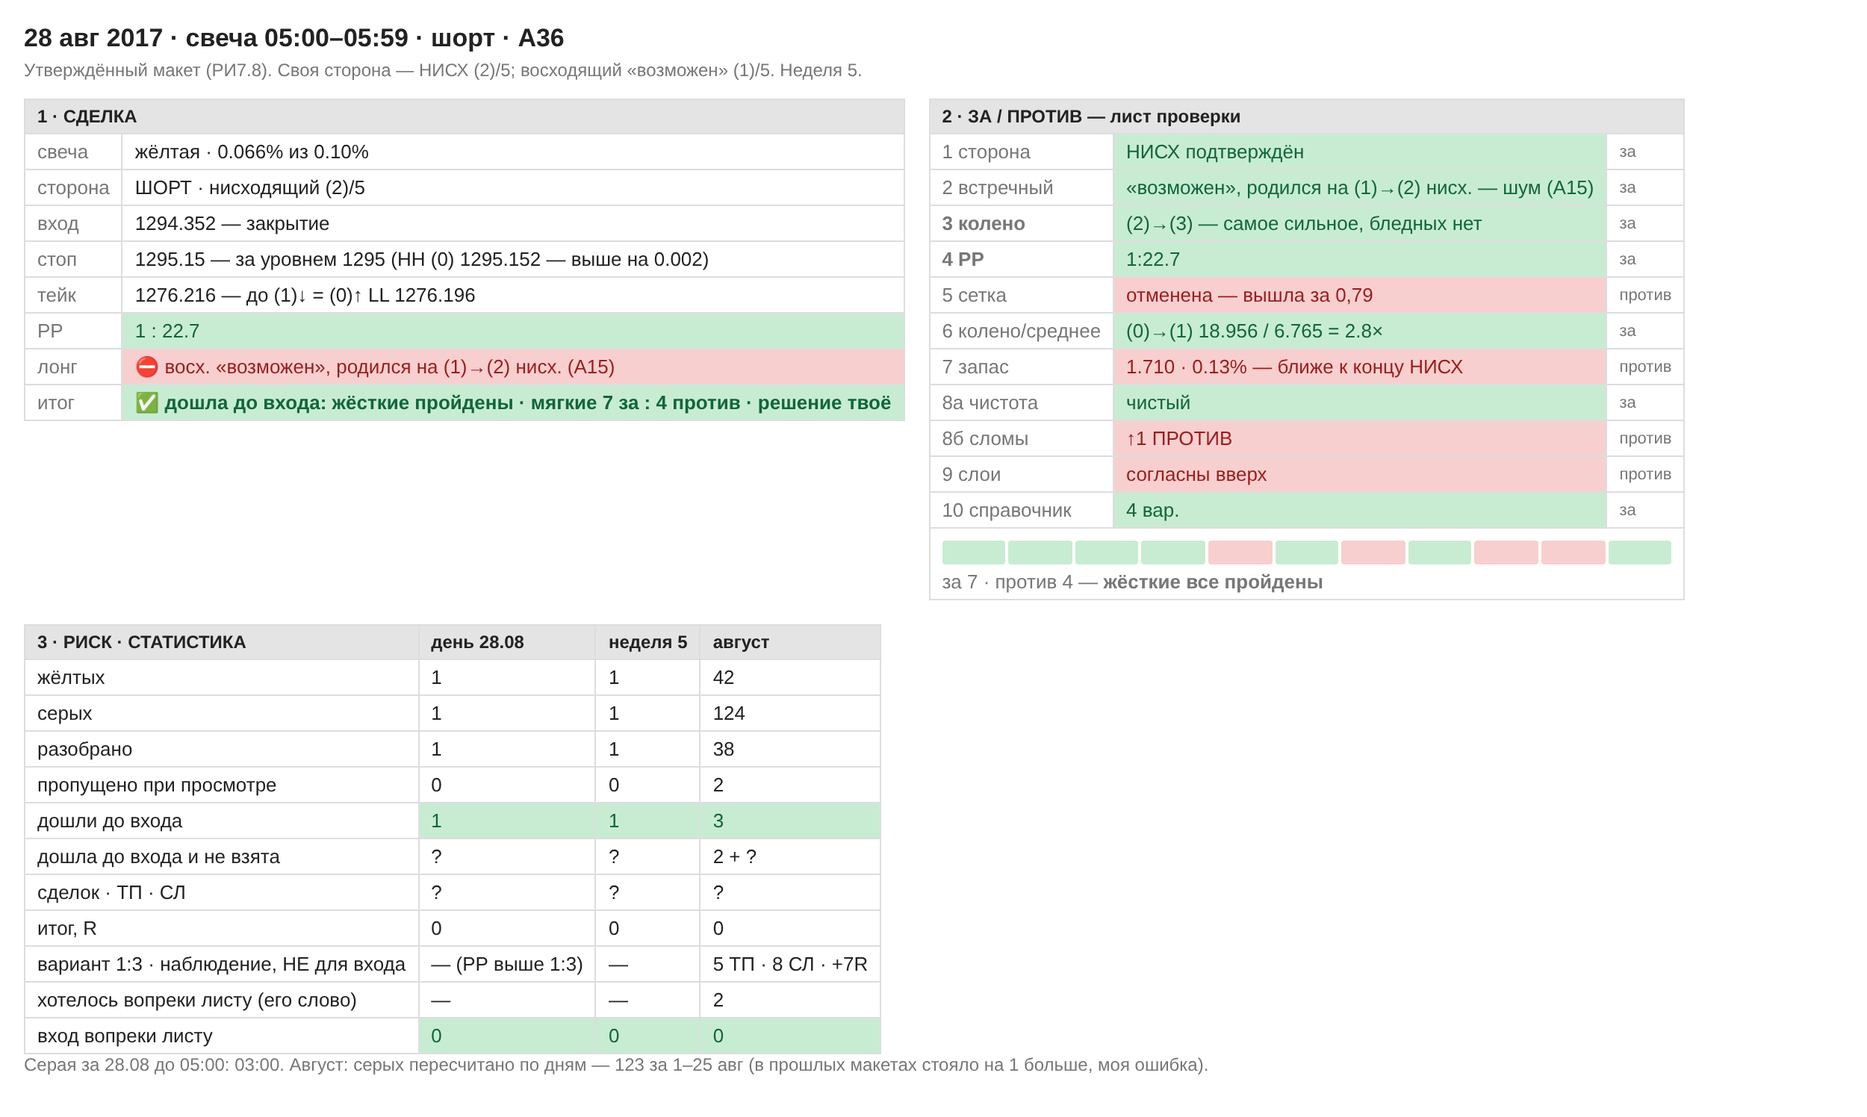
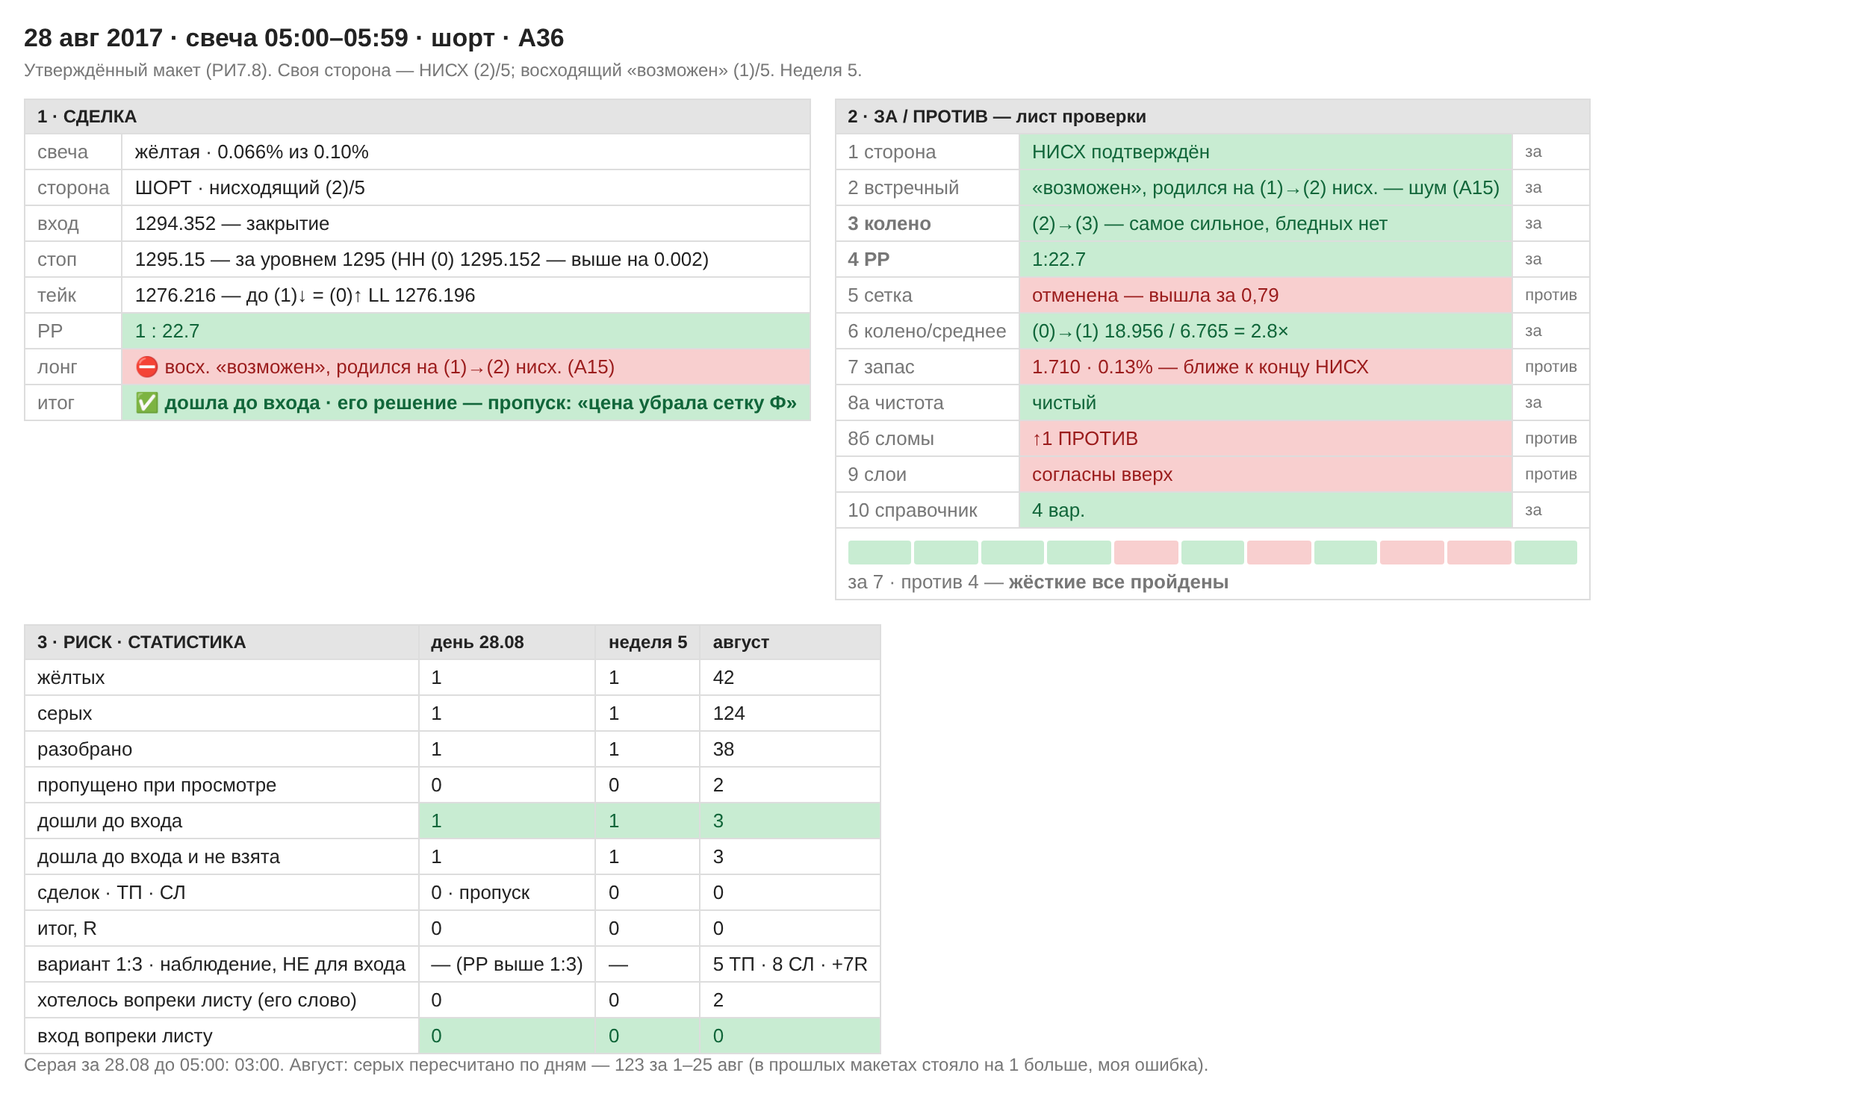
А36: его решение — пропуск, «цена убрала сетку Ф»; отменённая сетка решает второй раз — спрошено
Claude-Session: https://claude.ai/code/session_01TnuyYeu48W8E686G1zottP

Changed region(s): [[0.1872, 0.0615, 0.9048, 0.5535]]

diff --git a/research/out/maket/2017-08-28_0500.html b/research/out/maket/2017-08-28_0500.html
@@ -6,4 +6,4 @@ table{border-collapse:collapse;min-width:360px}td,th{border:1px solid var(--ln);
 th{background:var(--h);font-size:12px}.blk td:first-child{color:var(--mut);white-space:nowrap}
 .g{background:var(--g);color:var(--gt)}.r{background:var(--r);color:var(--rt)}.n{background:var(--n);color:var(--mut)}
 .hard{font-weight:bold}.tag{font-size:11px;color:var(--mut)}
-.bar{display:flex;gap:2px;margin:4px 0}.bar span{flex:1;height:16px;border-radius:2px}</style></head><body><h1>28 авг 2017 · свеча 05:00–05:59 · шорт · А36</h1><p class="sub">Утверждённый макет (РИ7.8). Своя сторона — НИСХ (2)/5; восходящий «возможен» (1)/5. Неделя 5.</p><div class="wrap"><table class="blk"><tr><th colspan="2">1 · СДЕЛКА</th></tr><tr><td>свеча</td><td class="">жёлтая · 0.066% из 0.10%</td></tr><tr><td>сторона</td><td class="">ШОРТ · нисходящий (2)/5</td></tr><tr><td>вход</td><td class="">1294.352 — закрытие</td></tr><tr><td>стоп</td><td class="">1295.15 — за уровнем 1295 (HH (0) 1295.152 — выше на 0.002)</td></tr><tr><td>тейк</td><td class="">1276.216 — до (1)↓ = (0)↑ LL 1276.196</td></tr><tr><td>РР</td><td class="g">1 : 22.7</td></tr><tr><td>лонг</td><td class="r">⛔ восх. «возможен», родился на (1)→(2) нисх. (А15)</td></tr><tr><td>итог</td><td class="g hard">✅ дошла до входа: жёсткие пройдены · мягкие 7 за : 4 против · решение твоё</td></tr></table><table class="blk"><tr><th colspan="3">2 · ЗА / ПРОТИВ — лист проверки</th></tr><tr><td class="">1 сторона</td><td class="g">НИСХ подтверждён</td><td class="tag">за</td></tr><tr><td class="">2 встречный</td><td class="g">«возможен», родился на (1)→(2) нисх. — шум (А15)</td><td class="tag">за</td></tr><tr><td class="hard">3 колено</td><td class="g">(2)→(3) — самое сильное, бледных нет</td><td class="tag">за</td></tr><tr><td class="hard">4 РР</td><td class="g">1:22.7</td><td class="tag">за</td></tr><tr><td class="">5 сетка</td><td class="r">отменена — вышла за 0,79</td><td class="tag">против</td></tr><tr><td class="">6 колено/среднее</td><td class="g">(0)→(1) 18.956 / 6.765 = 2.8×</td><td class="tag">за</td></tr><tr><td class="">7 запас</td><td class="r">1.710 · 0.13% — ближе к концу НИСХ</td><td class="tag">против</td></tr><tr><td class="">8а чистота</td><td class="g">чистый</td><td class="tag">за</td></tr><tr><td class="">8б сломы</td><td class="r">↑1 ПРОТИВ</td><td class="tag">против</td></tr><tr><td class="">9 слои</td><td class="r">согласны вверх</td><td class="tag">против</td></tr><tr><td class="">10 справочник</td><td class="g">4 вар.</td><td class="tag">за</td></tr><tr><td colspan="3"><div class="bar"><span class="g"></span><span class="g"></span><span class="g"></span><span class="g"></span><span class="r"></span><span class="g"></span><span class="r"></span><span class="g"></span><span class="r"></span><span class="r"></span><span class="g"></span></div>за 7 · против 4 — <b>жёсткие все пройдены</b></td></tr></table><table><tr><th>3 · РИСК · СТАТИСТИКА</th><th>день 28.08</th><th>неделя 5</th><th>август</th></tr><tr><td>жёлтых</td><td class="">1</td><td class="">1</td><td class="">42</td></tr><tr><td>серых</td><td class="">1</td><td class="">1</td><td class="">124</td></tr><tr><td>разобрано</td><td class="">1</td><td class="">1</td><td class="">38</td></tr><tr><td>пропущено при просмотре</td><td class="">0</td><td class="">0</td><td class="">2</td></tr><tr><td>дошли до входа</td><td class="g">1</td><td class="g">1</td><td class="g">3</td></tr><tr><td>дошла до входа и не взята</td><td class="">?</td><td class="">?</td><td class="">2 + ?</td></tr><tr><td>сделок · ТП · СЛ</td><td class="">?</td><td class="">?</td><td class="">?</td></tr><tr><td>итог, R</td><td class="">0</td><td class="">0</td><td class="">0</td></tr><tr><td>вариант 1:3 · наблюдение, НЕ для входа</td><td class="">— (РР выше 1:3)</td><td class="">—</td><td class="">5 ТП · 8 СЛ · +7R</td></tr><tr><td>хотелось вопреки листу (его слово)</td><td class="">—</td><td class="">—</td><td class="">2</td></tr><tr><td>вход вопреки листу</td><td class="g">0</td><td class="g">0</td><td class="g">0</td></tr></table></div><p class="sub">Серая за 28.08 до 05:00: 03:00. Август: серых пересчитано по дням — 123 за 1–25 авг (в прошлых макетах стояло на 1 больше, моя ошибка).</p></body></html>
+.bar{display:flex;gap:2px;margin:4px 0}.bar span{flex:1;height:16px;border-radius:2px}</style></head><body><h1>28 авг 2017 · свеча 05:00–05:59 · шорт · А36</h1><p class="sub">Утверждённый макет (РИ7.8). Своя сторона — НИСХ (2)/5; восходящий «возможен» (1)/5. Неделя 5.</p><div class="wrap"><table class="blk"><tr><th colspan="2">1 · СДЕЛКА</th></tr><tr><td>свеча</td><td class="">жёлтая · 0.066% из 0.10%</td></tr><tr><td>сторона</td><td class="">ШОРТ · нисходящий (2)/5</td></tr><tr><td>вход</td><td class="">1294.352 — закрытие</td></tr><tr><td>стоп</td><td class="">1295.15 — за уровнем 1295 (HH (0) 1295.152 — выше на 0.002)</td></tr><tr><td>тейк</td><td class="">1276.216 — до (1)↓ = (0)↑ LL 1276.196</td></tr><tr><td>РР</td><td class="g">1 : 22.7</td></tr><tr><td>лонг</td><td class="r">⛔ восх. «возможен», родился на (1)→(2) нисх. (А15)</td></tr><tr><td>итог</td><td class="g hard">✅ дошла до входа · его решение — пропуск: «цена убрала сетку Ф»</td></tr></table><table class="blk"><tr><th colspan="3">2 · ЗА / ПРОТИВ — лист проверки</th></tr><tr><td class="">1 сторона</td><td class="g">НИСХ подтверждён</td><td class="tag">за</td></tr><tr><td class="">2 встречный</td><td class="g">«возможен», родился на (1)→(2) нисх. — шум (А15)</td><td class="tag">за</td></tr><tr><td class="hard">3 колено</td><td class="g">(2)→(3) — самое сильное, бледных нет</td><td class="tag">за</td></tr><tr><td class="hard">4 РР</td><td class="g">1:22.7</td><td class="tag">за</td></tr><tr><td class="">5 сетка</td><td class="r">отменена — вышла за 0,79</td><td class="tag">против</td></tr><tr><td class="">6 колено/среднее</td><td class="g">(0)→(1) 18.956 / 6.765 = 2.8×</td><td class="tag">за</td></tr><tr><td class="">7 запас</td><td class="r">1.710 · 0.13% — ближе к концу НИСХ</td><td class="tag">против</td></tr><tr><td class="">8а чистота</td><td class="g">чистый</td><td class="tag">за</td></tr><tr><td class="">8б сломы</td><td class="r">↑1 ПРОТИВ</td><td class="tag">против</td></tr><tr><td class="">9 слои</td><td class="r">согласны вверх</td><td class="tag">против</td></tr><tr><td class="">10 справочник</td><td class="g">4 вар.</td><td class="tag">за</td></tr><tr><td colspan="3"><div class="bar"><span class="g"></span><span class="g"></span><span class="g"></span><span class="g"></span><span class="r"></span><span class="g"></span><span class="r"></span><span class="g"></span><span class="r"></span><span class="r"></span><span class="g"></span></div>за 7 · против 4 — <b>жёсткие все пройдены</b></td></tr></table><table><tr><th>3 · РИСК · СТАТИСТИКА</th><th>день 28.08</th><th>неделя 5</th><th>август</th></tr><tr><td>жёлтых</td><td class="">1</td><td class="">1</td><td class="">42</td></tr><tr><td>серых</td><td class="">1</td><td class="">1</td><td class="">124</td></tr><tr><td>разобрано</td><td class="">1</td><td class="">1</td><td class="">38</td></tr><tr><td>пропущено при просмотре</td><td class="">0</td><td class="">0</td><td class="">2</td></tr><tr><td>дошли до входа</td><td class="g">1</td><td class="g">1</td><td class="g">3</td></tr><tr><td>дошла до входа и не взята</td><td class="">1</td><td class="">1</td><td class="">3</td></tr><tr><td>сделок · ТП · СЛ</td><td class="">0 · пропуск</td><td class="">0</td><td class="">0</td></tr><tr><td>итог, R</td><td class="">0</td><td class="">0</td><td class="">0</td></tr><tr><td>вариант 1:3 · наблюдение, НЕ для входа</td><td class="">— (РР выше 1:3)</td><td class="">—</td><td class="">5 ТП · 8 СЛ · +7R</td></tr><tr><td>хотелось вопреки листу (его слово)</td><td class="">0</td><td class="">0</td><td class="">2</td></tr><tr><td>вход вопреки листу</td><td class="g">0</td><td class="g">0</td><td class="g">0</td></tr></table></div><p class="sub">Серая за 28.08 до 05:00: 03:00. Август: серых пересчитано по дням — 123 за 1–25 авг (в прошлых макетах стояло на 1 больше, моя ошибка).</p></body></html>

diff --git a/indicator/КАК-ТОРГУЮ.md b/indicator/КАК-ТОРГУЮ.md
@@ -62,7 +62,7 @@
 | **А33** | 19.11.2026 | **25 августа 01:00** — скрин, «переходим на 25 августа» | ⭐ **вторая в августе «дошла до входа»**: лонг на `(2)→(3)`, РР 1:4.12 до (1) HH 1290.249, жёсткие пройдены · мягкие 6 за : 4 против · **его решение — «скорее пропуск»**, неуверенность |
 | **А34** | 19.11.2026 | **25 августа 05:00** — скрин без слов | пропуск: шорт на `(2)→(3)` нисх., РР 1:1.78 до (1)↓ HL 1284.881 · лонг — восх. на (3), коррекция · первый скрин с его порогом колена 1 · В36: шорт 1:3, тейк 1283.918 |
 | **А35** | 19.11.2026 | **25 августа 12:00** — скрин без слов | пропуск обе стороны: шорт — РР 1:1.57 до (3)↓ HL 1285.962, бледная (4) с оговоркой · лонг — бледная **(5)** восх., ТС8.13 · одна бледная 1288.624 на двоих · В36: шорт 1:3, тейк 1284.226 |
-| **А36** | 19.11.2026 | **28 августа 05:00** — скрин, «переходим на 28 августа» | ⭐ **третья «дошла до входа»**: шорт на `(2)→(3)` нисх., РР **1:22.7** до (1)↓ LL 1276.196 · жёсткие пройдены, мягкие 7 : 4 · решение его |
+| **А36** | 19.11.2026 | **28 августа 05:00** — скрин, «переходим на 28 августа» | ⭐ **третья «дошла до входа»**: шорт на `(2)→(3)` нисх., РР **1:22.7** до (1)↓ LL 1276.196 · жёсткие пройдены, мягкие 7 : 4 · **его решение — пропуск: «цена убрала сетку Ф»** |
 
 ---
 
@@ -4436,3 +4436,14 @@ LH 1290.234 · рубится глубиной 1291.653 · запас 5.347, 0.4
 **Вариант 1:3 не пишется:** РР выше 1:3.
 
 **Макет:** `research/out/maket/2017-08-28_0500.png`. ❓ Спрошено: входит ли.
+
+**Ответ, 19.11.2026:** «нет, пропуск. цена убрала сетку Ф».
+
+| | |
+|---|---|
+| решение | **пропуск** — дошла до входа и **не взята**, третий раз из трёх |
+| его довод | **сетка отменена** — по листу это мягкий пункт 5 (жёсткий только «между») |
+| ⚠ **что заметно** | **второй раз подряд** решает именно отменённая сетка: в А33 (25 авг 01:00) он назвал её первой — «нет сетки… потому что цена её убрала», здесь — единственной. В листе она мягкая, в его решениях — решающая |
+| ❓ спрошено | сделать «сетка отменена» жёстким пунктом или оставить мягким. По умолчанию — **оставить мягким и копить**: два случая — не правило, а у мягких решает он сам (ТС8.9) |
+
+Исход — когда он пройдёт дальше.

diff --git a/indicator/ТАБЛО-НА-СВЕЧЕ.md b/indicator/ТАБЛО-НА-СВЕЧЕ.md
@@ -48,7 +48,7 @@
 | 25 авг 01:00 | А33 | скрин | **ВОСХ** / возможен | (2) / (1) | ↑ чистый, ↓1 ПРОТИВ · ↓ чистый, ↓1 за | согласны (вниз) | 0.19% · ближе к концу ВОСХ | 5.757 / 6.934 | ВОСХ `(0)→(1)`, отменена — вышла за 0,79 | **лонг 1:4.12 ✅** | ⭐ **дошла до входа**, 6 : 4 · его решение — **«скорее пропуск»**: неуверенность, сетки нет, слом против, «не нравится, как проходит тренд» | лонг — ✅ **тейк** 25 авг ~16:10 (его 5m: 15:10 мин. 1285.58 → 16:10 макс. 1295.16) — **упущено +4.12R** |
 | 25 авг 05:00 | А34 | скрин | **ВОСХ** / **НИСХ** | (3) / (2) | ↑ чистый, ↓2 ПРОТИВ · ↓ чистый, ↓2 за | спорят | ↓ 0.16% (ближе к концу) | 5.368 / 6.303 (данные) | у ВОСХ колено мелкое (порог 1) | шорт 1:1.78 | пропуск: шорт — РР; лонг — коррекция | шорт — **стоп** в 08:00 (и 1:3 тоже) |
 | 25 авг 12:00 | А35 | скрин | **ВОСХ** / **НИСХ** | (4)·**(5) предв.** / (3)·(4) предв. | ↑ чистый, ↑1 за · ↓ чистый, ↑1 ПРОТИВ | спорят | ↓ 0.03% (ближе к концу) | 1.236 / 5.349 (данные) | у ВОСХ колено мелкое | шорт 1:1.57 · лонг 1:2.16 | пропуск: шорт — РР; лонг — бледная (5), ТС8.13 | шорт до вершины — тейк в 15:00 (не сделка, РР 1:1.57) · вариант 1:3 — стоп ~16:10 |
-| 28 авг 05:00 | А36 | скрин | возможен / **НИСХ** | (1) / (2) | ↑ чистый, ↑1 за · ↓ чистый, ↑1 ПРОТИВ | согласны (вверх) | ↓ 0.13% (ближе к концу) | 18.956 / 6.765 | НИСХ `(0)→(1)`, отменена — вышла за 0,79 | **шорт 1:22.7 ✅** | ⭐ **дошла до входа**, 7 : 4 · решение его — ❓ | — идёт |
+| 28 авг 05:00 | А36 | скрин | возможен / **НИСХ** | (1) / (2) | ↑ чистый, ↑1 за · ↓ чистый, ↑1 ПРОТИВ | согласны (вверх) | ↓ 0.13% (ближе к концу) | 18.956 / 6.765 | НИСХ `(0)→(1)`, отменена — вышла за 0,79 | **шорт 1:22.7 ✅** | ⭐ **дошла до входа**, 7 : 4 · его решение — **пропуск: «цена убрала сетку Ф»** | — идёт |
 
 ⚠ **8 авг 03:00 — табло на бар позади.** На закрытии свечи было уже
 **(2)** и **ВОСХ**; на графике он видел (1) и «возможен» — З77, починено в
